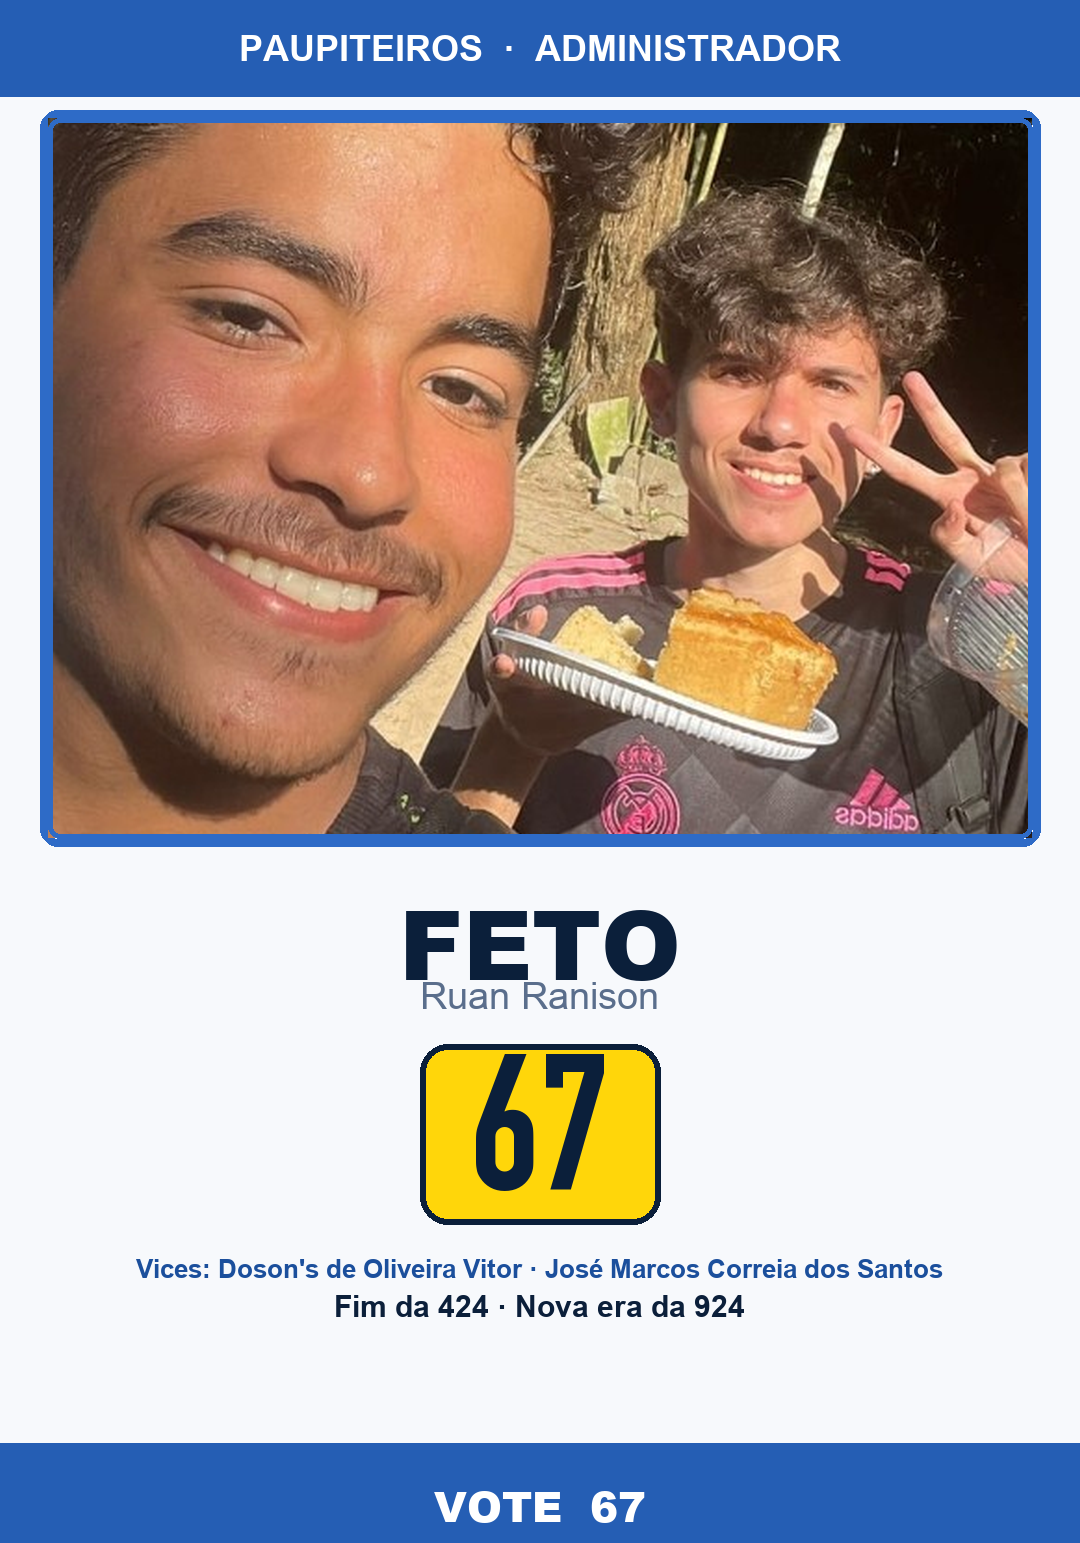
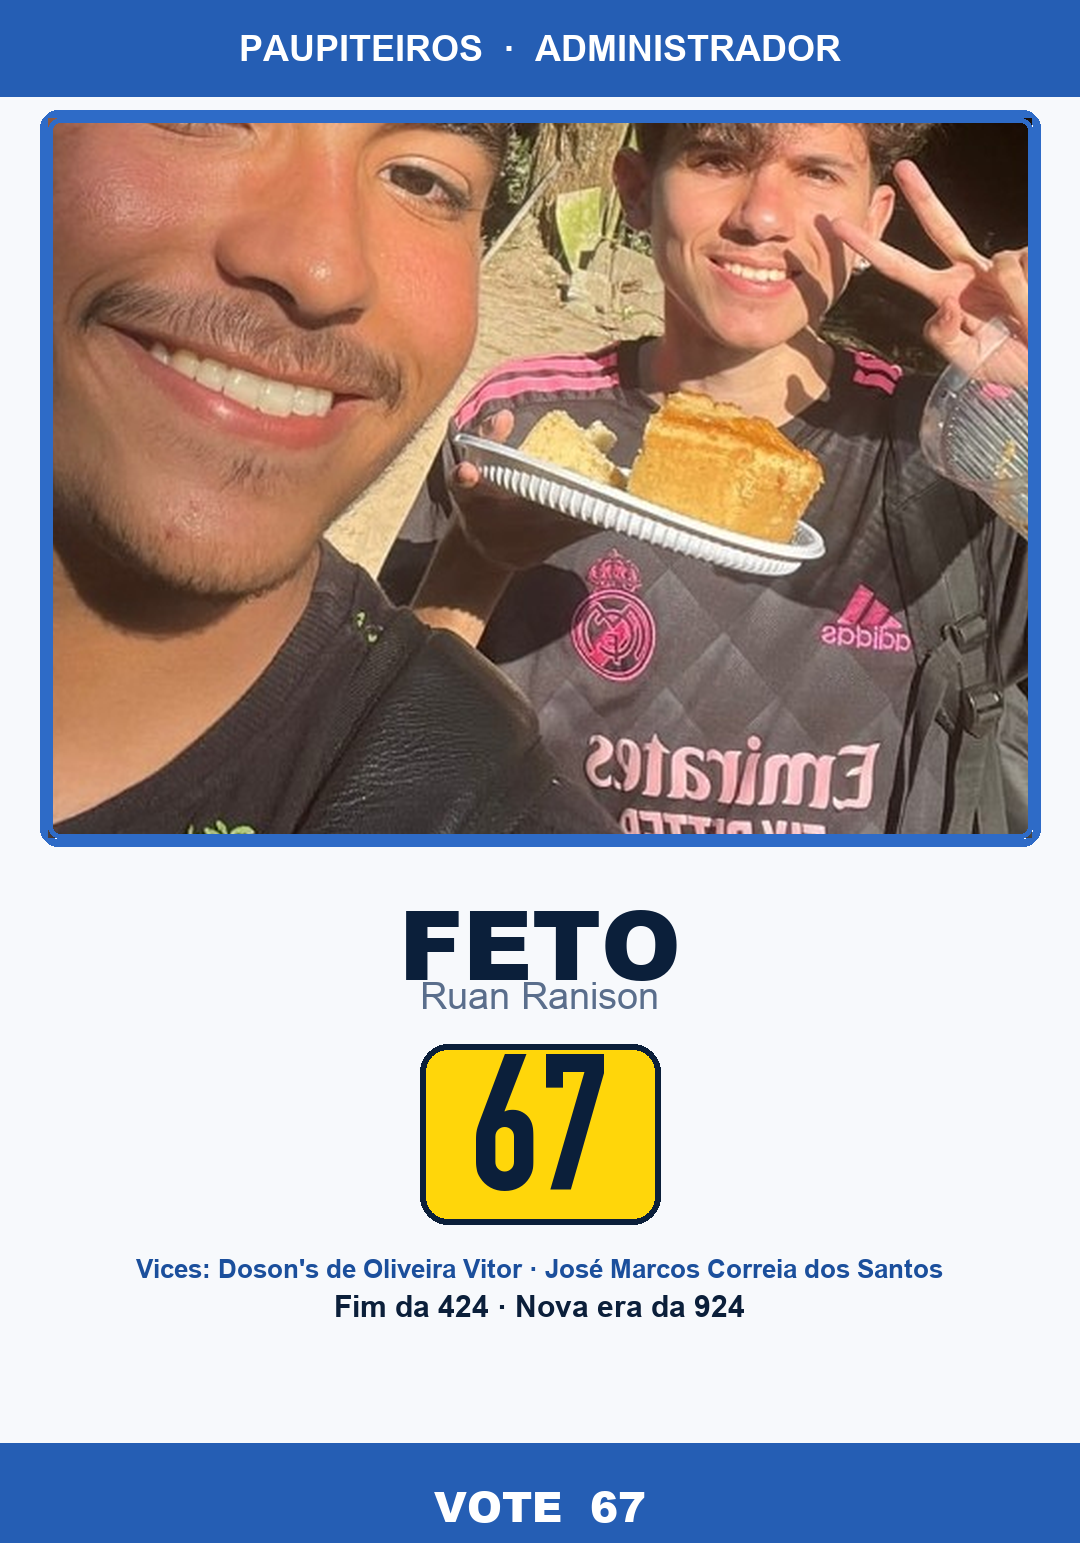
fix: close mais apertado no rosto dos santinhos

diff --git a/scripts/gerar_santinhos.py b/scripts/gerar_santinhos.py
@@ -75,16 +75,15 @@ def wrap_center(draw, text, y, font, fill, max_w, gap=6):
 
 
 def face_crop(src: Image.Image, tw: int, th: int, focus=(0.5, 0.42), zoom=1.35) -> Image.Image:
-    """Close crop estilo santinho: rosto grande, pouco fundo acima."""
+    """Close crop estilo santinho: rosto grande, quase sem parede acima."""
     sw, sh = src.size
-    # zoom > 1 = mais close (escala maior que o cover mínimo)
     base = max(tw / sw, th / sh) * zoom
     nw, nh = int(sw * base), int(sh * base)
     resized = src.resize((nw, nh), Image.Resampling.LANCZOS)
     cx, cy = int(nw * focus[0]), int(nh * focus[1])
-    # rosto a ~28% do topo do quadro
+    # rosto bem alto no quadro (~18% do topo)
     left = max(0, min(cx - tw // 2, nw - tw))
-    top = max(0, min(cy - int(th * 0.28), nh - th))
+    top = max(0, min(cy - int(th * 0.18), nh - th))
     return resized.crop((left, top, left + tw, top + th))
 
 
@@ -125,9 +124,9 @@ def make_frente(photo_path: Path, out_path: Path, *, nova: bool):
     photo_h = 720
     pw, ph = W - 2 * margin, photo_h
     if nova:
-        crop = face_crop(photo, pw, ph, focus=(0.68, 0.48), zoom=1.45)
+        crop = face_crop(photo, pw, ph, focus=(0.70, 0.55), zoom=1.55)
     else:
-        crop = face_crop(photo, pw, ph, focus=(0.50, 0.48), zoom=1.65)
+        crop = face_crop(photo, pw, ph, focus=(0.50, 0.58), zoom=1.90)
 
     # moldura branca + filete azul (clássico)
     frame = (margin - 8, photo_top - 8, margin + pw + 8, photo_top + ph + 8)
